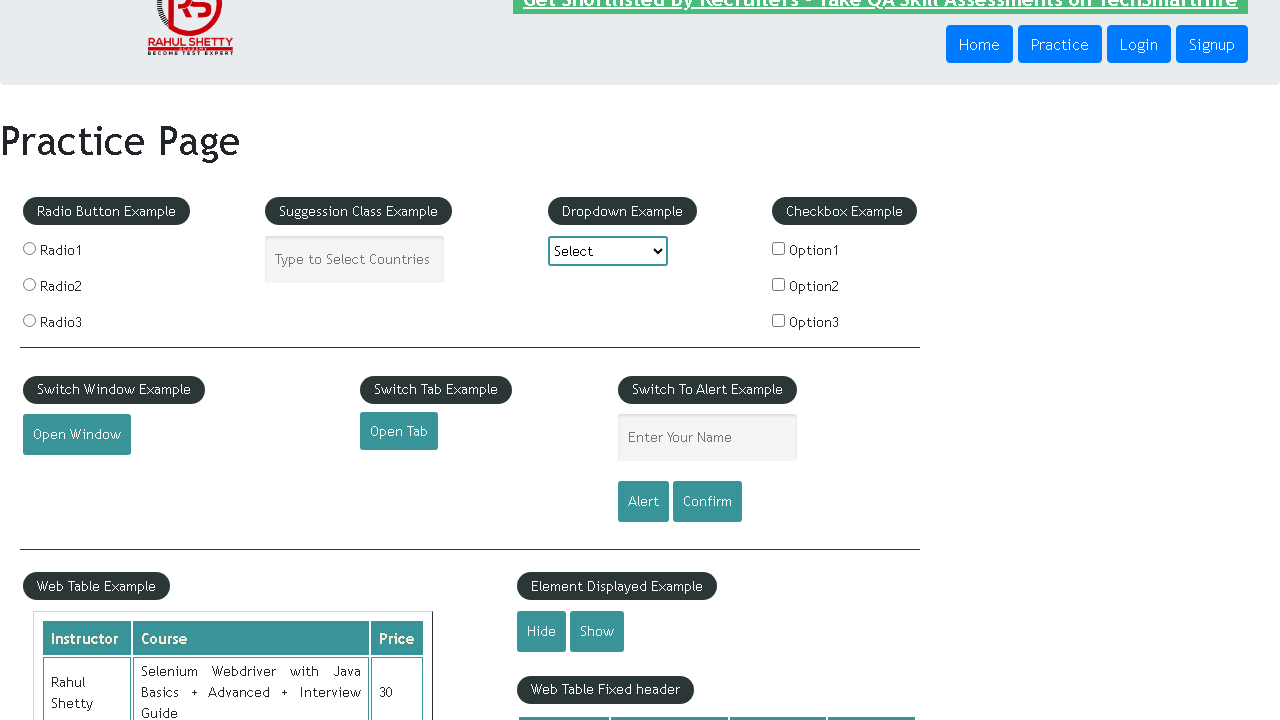
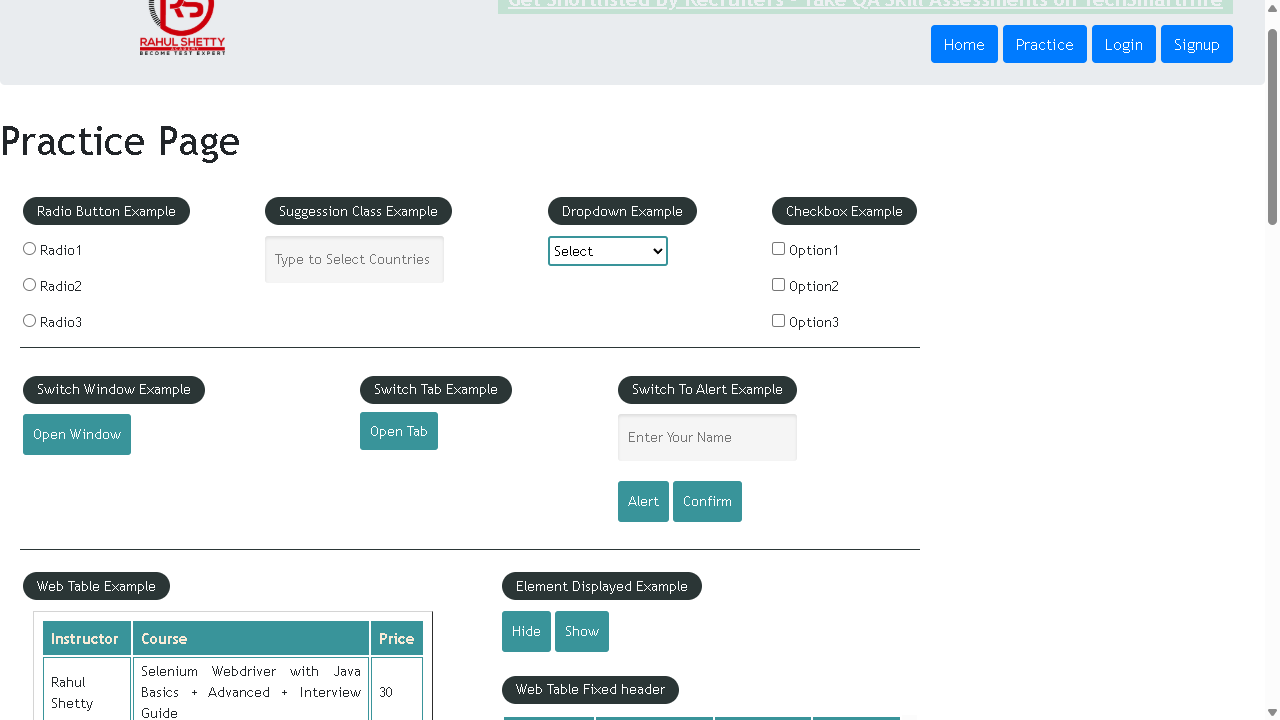
jenkins

diff --git a/playwright.config1.js b/playwright.config1.js
@@ -163,5 +163,12 @@ como instalar allure para windows con npm: Para instalar Allure en Windows utili
 3. Generar resultados para Allure  allure generate ./allure-results –clean
 4. abrir el reporte de Allure allure open >> allure open ./allure-report
 
+Jenkins: Jenkins, sigue estos pasos:
+
+descarga el war luego activalo con java -jar jenkins.war
+luego abre jenkins en el navegador y crea un nuevo proyecto de tipo Freestyle
+ingresa la ruta de tu proyecto en el campo "Directorio de trabajo" y configura los pasos de construcción para ejecutar tus pruebas con Playwright
+
+
 
 */
